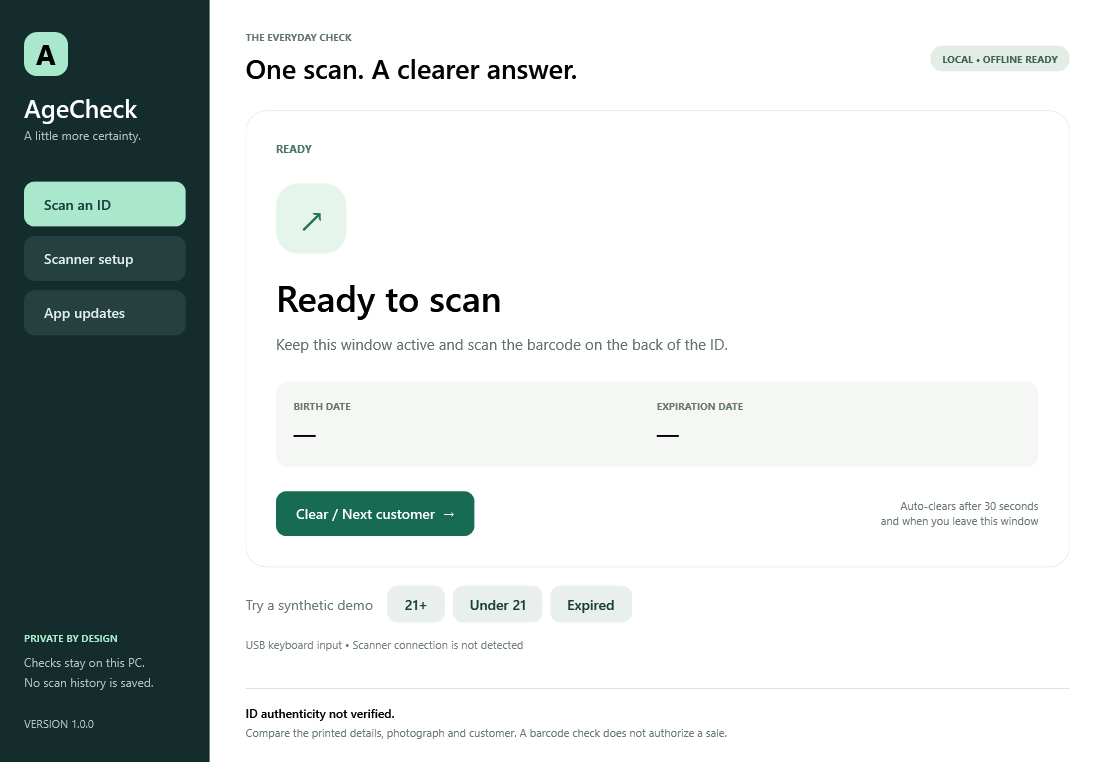
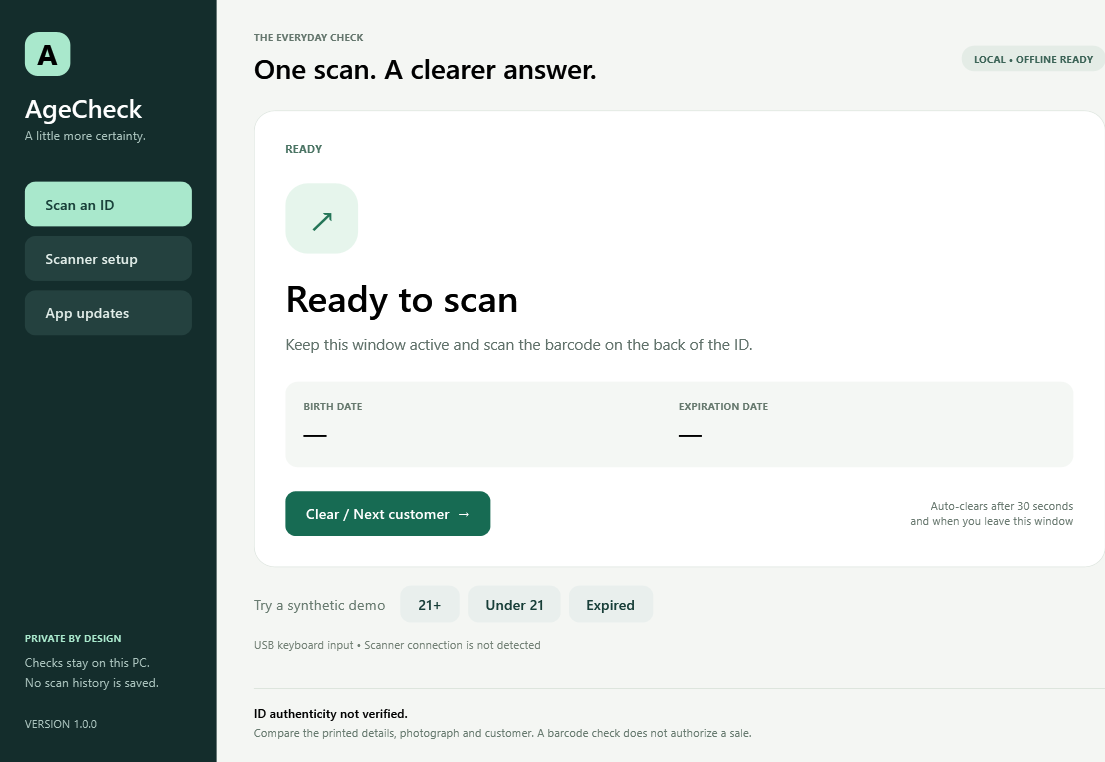
Preserve the window background in README screenshot exports

diff --git a/src/AgeCheck/MainWindow.xaml.cs b/src/AgeCheck/MainWindow.xaml.cs
@@ -206,7 +206,14 @@ public partial class MainWindow : Window
             await Task.Delay(250); UpdateLayout();
             var content = (FrameworkElement)Content;
             var bitmap = new RenderTargetBitmap((int)content.ActualWidth, (int)content.ActualHeight, 96, 96, PixelFormats.Pbgra32);
-            bitmap.Render(content); var encoder = new PngBitmapEncoder(); encoder.Frames.Add(BitmapFrame.Create(bitmap));
+            var canvas = new DrawingVisual();
+            using (var drawing = canvas.RenderOpen())
+            {
+                var area = new Rect(0, 0, content.ActualWidth, content.ActualHeight);
+                drawing.DrawRectangle(Background, null, area);
+                drawing.DrawRectangle(new VisualBrush(content), null, area);
+            }
+            bitmap.Render(canvas); var encoder = new PngBitmapEncoder(); encoder.Frames.Add(BitmapFrame.Create(bitmap));
             using var stream = File.Create($"artifacts/screenshots/{state}.png"); encoder.Save(stream);
         }
         Close();
